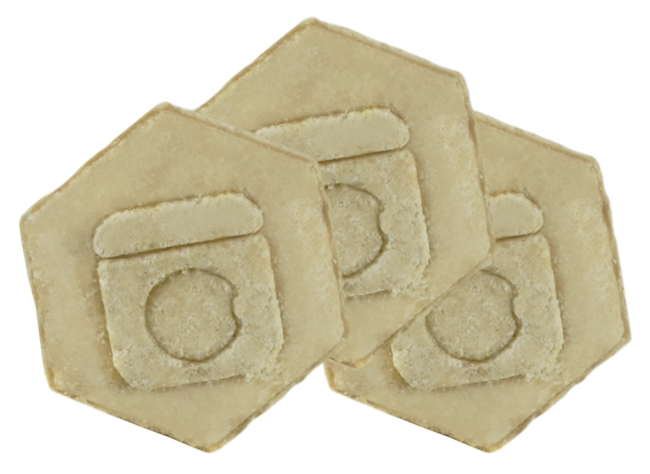
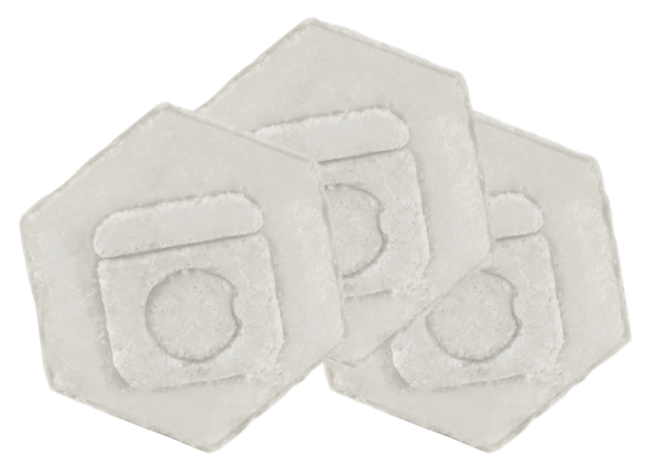
Added Animations to the product page, fixed the color of the bombs and added shadows

diff --git a/client/src/views/Product/Product.js b/client/src/views/Product/Product.js
@@ -18,43 +18,61 @@ import freshBackground from "./../../assets/backgroundPatterns/freshair_pattern.
 import coffeeBackground from "./../../assets/backgroundPatterns/vanilla_pattern.png";
 import mahoganyBackground from "./../../assets/backgroundPatterns/mahogany_pattern.png";
 
-let img, alt, back;
+import watermelonBottom from "./../../assets/detergentImages/watermelon_bottom.png";
+import coffeeBottom from "./../../assets/detergentImages/coffee_bottom.png";
+import eucalyptusBottom from "./../../assets/detergentImages/eucalyptus_bottom.png";
+import freshBottom from "./../../assets/detergentImages/freshair_bottom.png";
+import gardeniaBottom from "./../../assets/detergentImages/gardenia_bottom.png";
+import mahoganyBottom from "./../../assets/detergentImages/mahogany_bottom.png";
+import zipperSideways from "./../../assets/detergentImages/zipper_sideways.png";
+
+import bomb1_5 from "./../../assets/bombs/Laundr Bomb Angle1.5 White.png";
+import bomb1 from "./../../assets/bombs/Laundr Bomb Angle1 White.png";
+import bomb2 from "./../../assets/bombs/Laundr Bomb Angle2 White.png";
+
+let img, imgTop, imgBot, alt, back;
 const Product = (props) => {
   useEffect(() => {
     switch (props.match.params.pageNumber) {
       case "watermelon-cucumber":
         back = watermelonBackground;
         img = watermelonImg;
+        imgBot = watermelonBottom;
         alt = "watermelon";
         props.setPage(pages[0]);
         break;
       case "eucalyptus-tea-tree":
          back = eucalyptusBackground;
          img = eucalyptusImg;
+         imgBot = eucalyptusBottom;
          alt = "eucalyptus";
          props.setPage(pages[5]);
          break;  
       case "white-gardenia":
         back = gardeniaBackground;
         img = gardeniaImg;
+        imgBot = gardeniaBottom;
         alt = "gardenia";
         props.setPage(pages[1]);
         break;
       case "fresh-air":
         back = freshBackground;
         img = freshImg;
+        imgBot = freshBottom;
         alt = "freshair";
         props.setPage(pages[3]);
         break;  
       case "coffee-vanilla":
         back = coffeeBackground;
         img = coffeeImg;
+        imgBot = coffeeBottom;
         alt = "coffee";
         props.setPage(pages[4]);
         break;
       case "mahogany-teakwood":
         back = mahoganyBackground;
         img = mahoganyImg;
+        imgBot = mahoganyBottom;
         alt = "mahogany";
         props.setPage(pages[2]);
         break;
@@ -70,7 +88,25 @@ const Product = (props) => {
         <div className = {alt + "Background4"}></div>
         <div className = {alt + "Background5"}></div>
         <h1 className = {alt + "Title"}>{props.page.name2}</h1>
-        <img src={img} alt={props.page.name + " Image"} className="productpImage"></img>
+        
+
+        <div class="productpWrapper">
+          <img
+            src={zipperSideways} 
+            alt={"Product"}
+            class="productpZipper"
+          />     
+          <img
+            src={imgBot}
+            alt={"Product"}
+            class="productpBag"
+          />
+        </div>
+
+        <img src={bomb1_5} alt="Bomb Image 1.5" className="Bomb1_5"></img>
+        <img src={bomb1} alt="Bomb Image 1" className="Bomb1"></img>
+        <img src={bomb2} alt="Bomb Image 2" className="Bomb2"></img>
+
         <h1 className = {alt + "Title bottomTitle"}>{props.page.name3}</h1>
         <h3>{props.page.desc1}</h3>
         <h3>{props.page.desc2}</h3>
@@ -81,8 +117,6 @@ const Product = (props) => {
           <li>{props.page.scent3}</li>
         </ul>
       </div>
-
-      
       
       <AddToCartButton
         style={{ width: "200px" }}

diff --git a/client/src/assets/style.css b/client/src/assets/style.css
@@ -695,3 +695,108 @@ p {
     z-index: 15;
     margin:auto; 
 }
+
+.productpWrapper{
+    overflow: hidden;
+    width: 1200px;
+    height: 900px;
+    position: relative;
+    right: 700px;
+    bottom: 220px;
+    z-index: 15;
+    margin:auto; 
+}
+
+.productpZipper{
+    height: 1200px;
+    position: absolute;
+    z-index: 15;
+    top: -200px;
+    right: 99.5px;
+    animation-name: openingpAnimation;
+    animation-delay: 1s;
+    animation-duration: 2s;
+    animation-fill-mode: forwards;
+}
+
+.productpBag{
+    transform:rotate(90deg);
+    width: 1200px;
+    position: absolute;
+    z-index: 15;
+    left: 0px;
+}
+
+@keyframes openingpAnimation{
+    from { 
+        transform: translate(0);
+    } 
+    to {  
+        transform: translate(0px,775px);
+    }    
+}
+
+.Bomb1_5{
+    width: 300px;
+    position: absolute;
+    z-index: -1;
+    top: 50%;
+    left:0px;
+    animation-name: rollingAnimation1_5;
+    animation-duration: 2s;
+    animation-delay: 1s;
+    animation-fill-mode: forwards;
+}
+
+.Bomb1{
+    width: 300px;
+    position: absolute;
+    z-index: -1;
+    top: 50%;
+    left:0px;
+    animation-name: rollingAnimation1;
+    animation-duration: 2.2s;
+    animation-delay: 1s;
+    animation-fill-mode: forwards;
+    
+}
+
+.Bomb2{
+    width: 300px;
+    position: absolute;
+    z-index: -1;
+    top: 50%;
+    left:0px;
+    animation-name: rollingAnimation2;
+    animation-duration: 2.2s;
+    animation-delay: 1s;
+    animation-fill-mode: forwards;
+}
+
+@keyframes rollingAnimation1_5{
+    from { 
+        transform: translate(0) rotate(0deg);
+    } 
+    to {  
+        transform: translate(565px,-150px) rotate(45deg);
+    }    
+}
+
+@keyframes rollingAnimation1{
+    from { 
+        transform: translate(0) rotate(0deg);
+    } 
+    to {  
+        transform: translate(985px,135px) rotate(-5deg);
+    }      
+}
+
+@keyframes rollingAnimation2{
+    from { 
+        transform: translate(0) rotate(0deg);
+    } 
+    to {  
+        transform: translate(1200px,-250px) rotate(-5deg);
+    } 
+}
+
